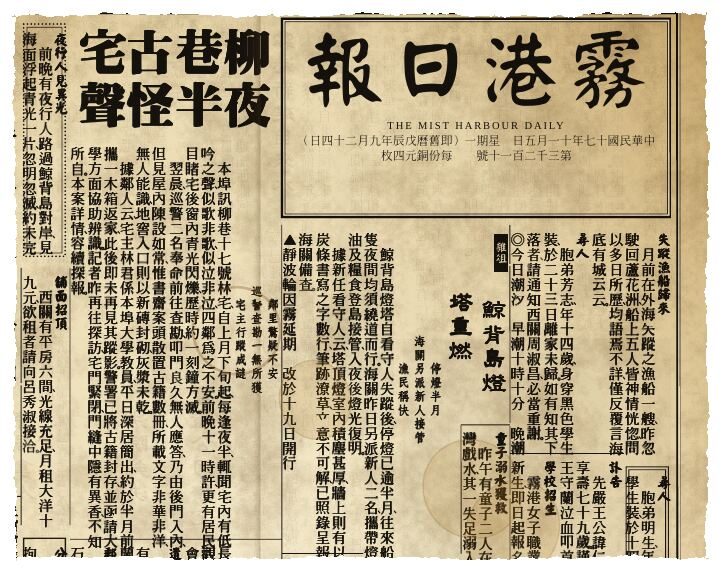
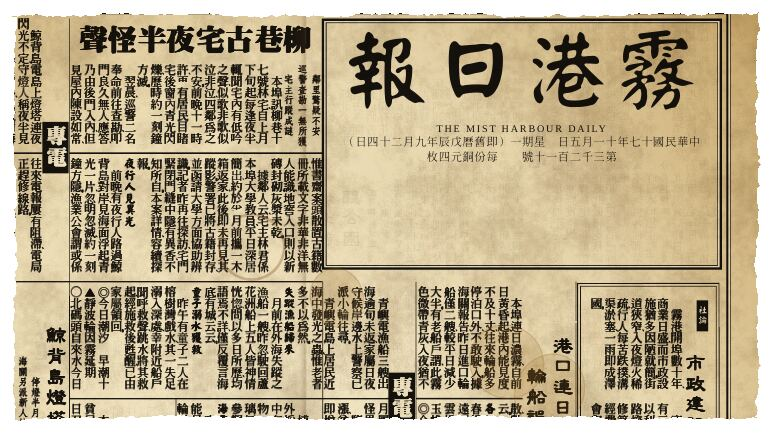
第四版報紙：範例圖與 README
- 五種版面類型各一張整版（要聞、本埠新聞、廣告、商情、副刊），另有 1910 年代＋廣告版的組合。
- 特寫：每一種區塊、每一種標題樣式（含括號與符號）、內文大中小與割注、框線與五種花邊。
- 第三版的報紙範例（年代、頂部報頭、掃描感、句讀、鉛字質感、三種剪線）改用第四版重新產生。
- README：分段網格、版面類型、區塊個別設定的說明與範例表。
- 空心字直排時括號轉成直的。
全部由無頭 Chromium 的列印 PDF 轉出。

Claude-Session: https://claude.ai/code/session_01QshuMHJr6dZY8xiKzFUCcX

diff --git a/src/render/illustrations.ts b/src/render/illustrations.ts
@@ -183,13 +183,15 @@ export function outlineTextSvg(text: readonly string[], r: Rect, size: number, d
     style: { left: mm(r.x), top: mm(r.y), width: mm(r.w), height: mm(r.h) },
   });
   const n = text.length;
+  // 直排時括號要轉成直的（CSS 直排會自動轉，SVG 的單字要自己轉 90 度）
+  const BRACKETS = new Set(Array.from('【】〔〕「」（）《》〈〉『』'));
   text.forEach((ch, i) => {
     const x = dir === 'v' ? r.w / 2 : r.w / 2 + ((n - 1) / 2 - i) * size;
     const y = dir === 'v' ? (i + 0.5) * size + Math.max(0, (r.h - n * size) / 2) : r.h / 2;
     svg.appendChild(
       s('text', {
         attrs: { x: x.toFixed(3), y: y.toFixed(3), 'font-size': size.toFixed(3), 'text-anchor': 'middle', 'dominant-baseline': 'central', fill: 'none', stroke: 'currentColor', 'stroke-width': (size * 0.055).toFixed(3), 'stroke-linejoin': 'round' },
-        style: { 'font-family': fontVar, 'font-weight': '900' },
+        style: { 'font-family': fontVar, 'font-weight': '900', ...(dir === 'v' && BRACKETS.has(ch) ? { transform: `rotate(90deg)`, 'transform-origin': `${x.toFixed(3)}px ${y.toFixed(3)}px`, 'transform-box': 'view-box' } : {}) },
         text: ch,
       }),
     );

diff --git a/README.md b/README.md
@@ -16,11 +16,25 @@
 | --- | --- | --- | --- | --- | --- |
 | ![](docs/samples/preset-fire-letter.jpg) | ![](docs/samples/preset-sea-diary.jpg) | ![](docs/samples/preset-pocket-telegram.jpg) | ![](docs/samples/preset-cellar-deed.jpg) | ![](docs/samples/preset-torn-notes.jpg) | ![](docs/samples/preset-library-clipping.jpg) |
 
-整版報紙的年代預設與細節（第三版）：
+整版報紙的五種版面類型（第四版，分段網格；在預覽上點一個區塊可以個別設定）：
 
-| 1910 年代（右側直排報頭） | 1920 年代（右上角報頭，預設） | 1930 年代（左上角報頭、現代標點） | 頂部橫排報頭、無標點 | 掃描感 |
+| 要聞版 | 本埠新聞版 | 廣告版 | 商情版 | 副刊 |
 | --- | --- | --- | --- | --- |
-| ![](docs/samples/newspaper-1910s.jpg) | ![](docs/samples/newspaper-full.jpg) | ![](docs/samples/newspaper-1930s.jpg) | ![](docs/samples/newspaper-top.jpg) | ![](docs/samples/newspaper-scan.jpg) |
+| ![](docs/samples/v4-page-news.jpg) | ![](docs/samples/v4-page-local.jpg) | ![](docs/samples/v4-page-ads.jpg) | ![](docs/samples/v4-page-market.jpg) | ![](docs/samples/v4-page-supplement.jpg) |
+
+每一種區塊（新聞、短訊、社論、專電、廣告、啟事、表格、目錄、連載、插圖）：
+
+![每一種區塊](docs/samples/v4-closeup-kind.jpg)
+
+| 標題樣式與括號 | 內文：大、小、割注 | 框線與花邊 |
+| --- | --- | --- |
+| ![](docs/samples/v4-closeup-title.jpg) | ![](docs/samples/v4-closeup-body.jpg) | ![](docs/samples/v4-closeup-frame.jpg) |
+
+整版報紙的年代預設與細節：
+
+| 1910 年代（右側直排報頭） | 1920 年代（右上角報頭，預設） | 1930 年代（左上角報頭、現代標點） | 頂部橫排報頭、無標點 | 掃描感 | 1910 年代＋廣告版 |
+| --- | --- | --- | --- | --- | --- |
+| ![](docs/samples/newspaper-1910s.jpg) | ![](docs/samples/newspaper-full.jpg) | ![](docs/samples/newspaper-1930s.jpg) | ![](docs/samples/newspaper-top.jpg) | ![](docs/samples/newspaper-scan.jpg) | ![](docs/samples/v4-page-1910s-ads.jpg) |
 
 | 報頭、報眉、欄名、透背（局部） | 句讀：無標點／舊式圈點／現代標點 | 鉛字質感：0／100 |
 | --- | --- | --- |
@@ -45,24 +59,41 @@
 ## 道具種類
 
 1. **報紙**，有四種版面模式：
-   - **整版**：版面像當年的報紙一樣「除了邊框都是字」，而且不再是等高整齊的分段：
-     區塊高低寬窄各不相同，有的廣告跨兩三段，分界是階梯或 L 形，文字繞著框排，欄線長短不一、部分用雙線。
-     你的新聞放在右上方，其餘用內建的填版素材（本埠短訊、有主標副標的新聞、藥品／百貨／戲院廣告、輪船班期、物價、
-     天氣、尋人、遺失聲明、招領、婚喪啟事、警局與法院消息等，全部原創、虛構，模仿民國文體）排滿；
-     字太多時最後一則會截斷並加「未完」。可以加入多則自己的新聞、啟事或廣告，把線索藏在其中；
-     「換一批」重抽填版素材、「版面配置：換一個」重抽區塊的配置；在預覽上點一則素材可以鎖定（換一批時保留）或刪除。
+   - **整版**（第四版）：版面像當年的報紙一樣「除了邊框都是字」，而且有規矩：
+     一版由上而下分成 8～12 段（依紙張，或自選），段與段之間有較粗的段線；每個區塊佔整數個段與若干行。
+     不規則來自標題跨兩三段、廣告框跨段與各區塊的寬窄，而不是隨機的高度。頭條一定在右上，標題直排時佔滿跨段的高度。
+     **版面類型**決定這一版有哪些區塊、各占多少，可以和年代預設組合：
+     - 廣告版：民初第一張第一版常見的樣子，幾乎全是大小不一的廣告與啟事，還有一條橫貫全版的通欄廣告；
+     - 要聞版：頭條、專電群（每則以「鷗汀鎮電」之類的電頭開頭）、社論框、各則新聞，版面下方一排廣告；
+     - 本埠新聞版：多則本埠新聞（部分加欄名）、插圖、啟事、短訊，下方一排廣告；
+     - 商情版：兩三張格線表格（行情、船期、金融行情）、商業新聞，下方一排廣告；
+     - 副刊：連載小說橫條、詩文（花邊框）、插圖、有點線引導與頁碼的目錄框、小廣告。
+
+     **每個區塊都能單獨設定**：在預覽上點一個區塊就選取它（虛線外框），左邊表單最上方出現它自己的設定——
+     種類（新聞、短訊、社論、專電、廣告、啟事、表格、目錄、連載、插圖）、標題（文字、字型、大小五級、直排或橫排由右而左、
+     一般／空心字／黑底白字／加框／陰影、【】〔〕「」◎▲）、內文（字型、大中小與割注——一行裡並排兩小行）、
+     框線（無、單線、雙線、粗細線、點線、花邊：回紋、雲紋、圓點、菱形、波紋）、插圖、高度（段）與寬度（行）；
+     另有新增、複製、刪除、鎖定（換一批、換一個版面配置時保留內容與樣式）、上移、下移、還原。
+     版面類型與年代預設是起點，只有改過的欄位存進 JSON，匯入時逐項驗證；舊存檔照樣能匯入。
+
+     你的新聞放在頭條，其餘用內建的填版素材（本埠短訊、有主標副標的新聞、社論、專電、連載小說、副刊詩文、
+     藥品／百貨／戲院廣告、行情與船期、尋人、遺失聲明、婚喪啟事等，全部原創、虛構，地名沿用霧港一帶）排滿；
+     你的主新聞與第二則會依字數決定寬度與跨幾段，盡量不截斷。可以加入多則自己的新聞、啟事或廣告，把線索藏在其中；
+     「換一批」重抽填版素材、「版面配置：換一個」重抽區塊的配置。
+     廣告與插圖裡的線條圖（藥瓶、藥盒、帽子、懷錶、輪船、時鐘）、花邊與空心字全部是 SVG 程式產生，圖樣原創；
+     空心字用 SVG 描邊，不用 `-webkit-text-stroke`（後者會讓 PDF 把字轉成外框而膨脹）。
    - **從整版剪下**：先排滿整版，再沿剪線剪出你的新聞（或全部自己的新聞、可連報頭）。剪線可選剪刀直剪（略歪、細微鋸齒）、
      手撕、剪歪，四邊各多留多少可調。壓在剪線上的字會真的被切成一半，鄰近新聞的標題殘字與欄線斷頭照樣保留。
    - **剪報（只有這一則）**：第一版的模式，可緊貼文字或填滿紙張。
 
    整版的細節：
    - **報頭**（毛筆字型）位置可選：右側直排大報頭框（框內有日期、舊曆、英文報名、號數、定價）、
-     右上角或左上角的橫排報頭框（四周排新聞）、頂部橫排。英文報名預設虛構的 THE MIST HARBOUR DAILY。
+     右上角或左上角的橫排報頭框（四周排新聞）、頂部橫排；框的高度對齊段線。英文報名預設虛構的 THE MIST HARBOUR DAILY。
    - **報眉**：版面最上方一條細欄，例如「第一張　▷中華民國十七年十一月五日　星期一　霧港日報◁　第一版」（由右而左）。
    - **標題**分級：主標（三行寬）、二級（兩行寬）、三級與副題，大小差距明顯，依年代混用不同字型；
      主新聞與部分新聞的標題由右而左橫排、跨好幾行；欄名（本埠新聞、商情、海上消息……）黑底白字。
-   - **廣告**：兩到七個特大字佔滿框，同一則廣告橫排直排混用，有價目與發行所；框線用 SVG 畫雙線、粗細線、點線、角花，
-     部分廣告黑底白字；廣告最多佔版面三分之一。
+   - **廣告**：兩到七個特大字佔滿框，同一則廣告橫排直排混用，有價目與發行所；特大字可用空心字、黑底白字、加框或陰影，
+     框線用 SVG 畫雙線、粗細線、點線或花邊，部分廣告附線條插圖。
    - **日期附舊曆**：例如「中華民國十七年十一月五日　星期一（即舊曆戊辰年九月二十四日）」，見下方「舊曆」。
    - **句讀**：無標點、舊式圈點（只用「。」「、」，畫在字的右下、不佔字格）、現代標點。
    - **年代預設**：1910 年代（舊式圈點、右側直排行書報頭、明體為主、印刷較粗糙）、1920 年代、
@@ -338,11 +369,12 @@ src/
   state.ts            存檔格式（匯出／匯入、localStorage 共用）
   fonts.ts            可選字型清單（來源、版本、授權、SHA-256）
   lib/                純邏輯：民國紀年、中文數字、韻目代日、電碼查詢、亂數、幾何、剪線、紙張狀況規劃、
-                      文字層標記、裝飾形狀、越寫越亂、舊曆、整版排版（lib/newspaper/：不規則版面 broadsheet、
+                      文字層標記、裝飾形狀、越寫越亂、舊曆、整版排版（lib/newspaper/：分段網格 sections、
+                      版面類型 pageplan、區塊樣式 blockstyle、內容分配 content、表格與目錄 tables、
                       欄內流排 flow、廣告 ads、句讀 punctuation、鉛字質感 press、紙面座標 sheetgeom）
   props/              四種道具的欄位定義、預設內容、紙張狀況與情境預設、年代預設（eras）、存檔中的結構化資料
-  render/             四種道具的版面、紙張狀況、裝飾
-  ui/                 表單產生器、照片處理、新聞條目、裁切、裝飾編輯、預覽選單
+  render/             四種道具的版面、紙張狀況、裝飾、報紙的線條插圖、花邊與空心字
+  ui/                 表單產生器、照片處理、新聞條目、裁切、裝飾編輯、整版區塊設定、預覽選單
   styles/             介面、道具與列印樣式
   data/               電碼資料、Big5 常用字表、舊曆對照表（由腳本產生）、填版素材
 scripts/              建置、本機伺服器、電碼資料與字型產生腳本（tar、SFNT、WOFF 1.0、子集化、分片等工具在 scripts/lib/）
